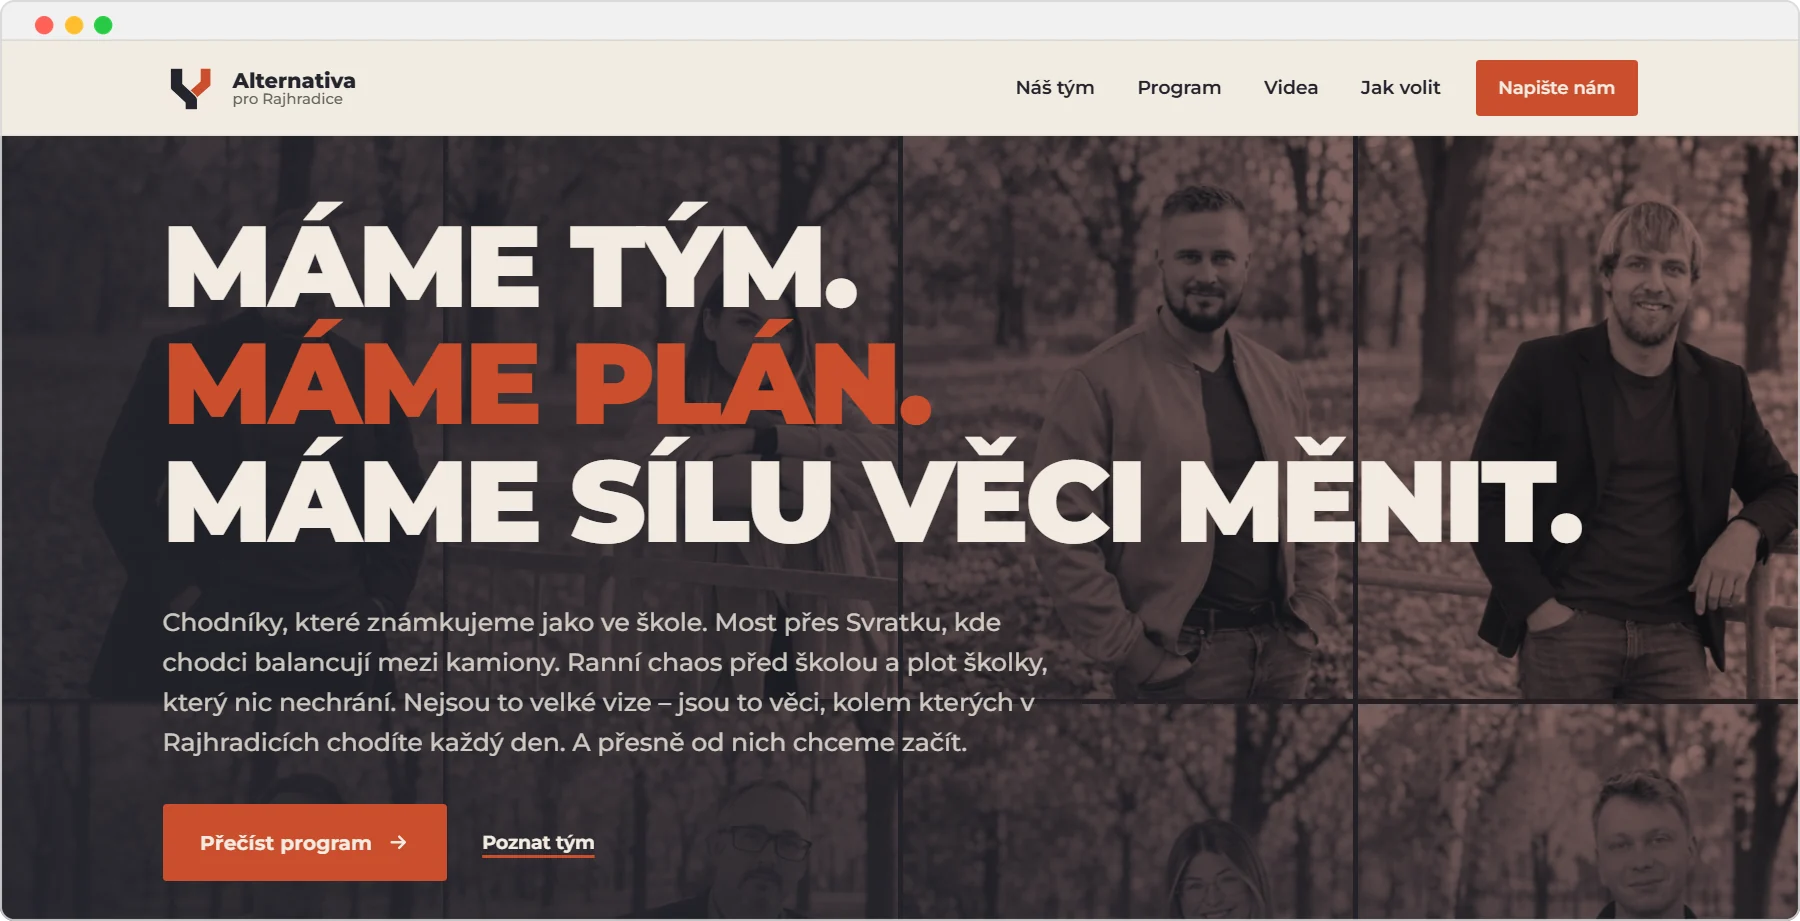
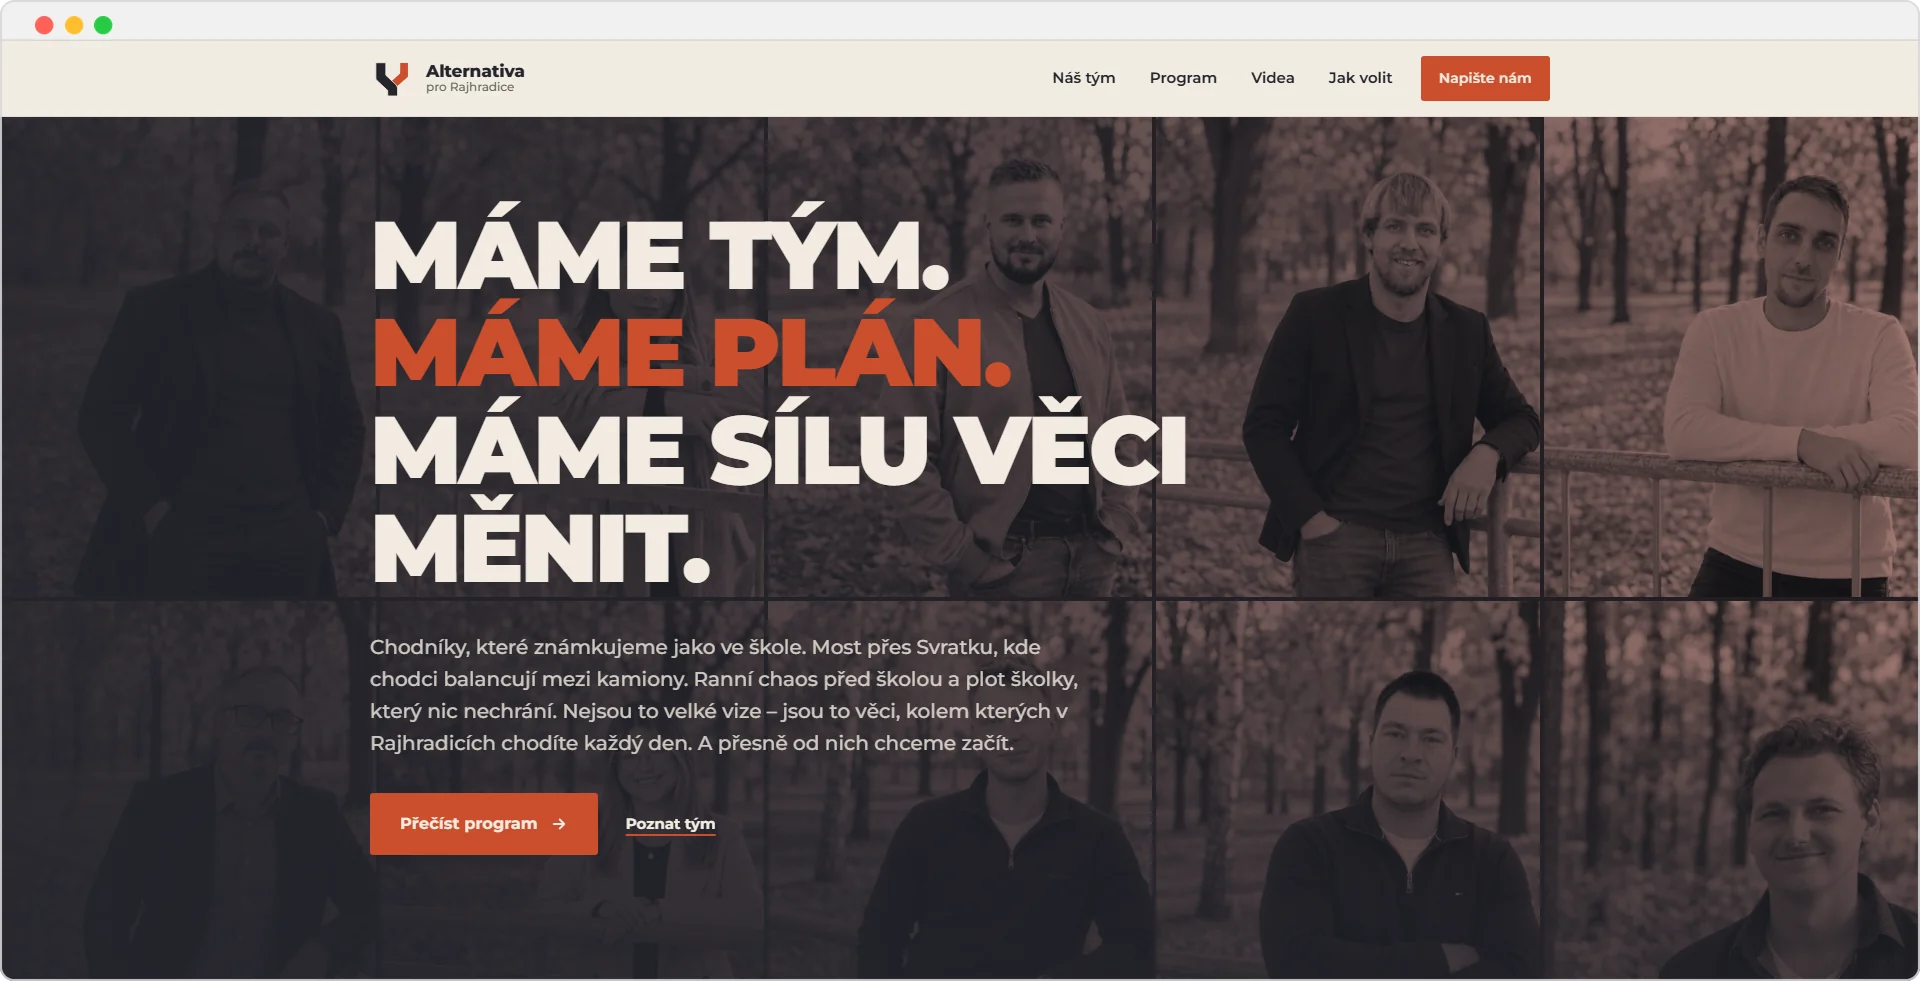
Put Maki back on dark, widen the website shots, add the mosaic slide
Maki's mark sits on its own dark app colour again. The Alternativa
website is shot at 1920 px, so it no longer looks zoomed in, and each
shot takes the full column instead of a quarter of it. The featured
slide gets the candidate mosaic from the website's hero behind the logo.

diff --git a/projects/alternativa.html b/projects/alternativa.html
@@ -296,26 +296,27 @@
                 <div class="pd-section">
                     <h2 class="pd-title" data-en="Website">Web</h2>
                     <p class="pd-text" data-en="Everything the flyer and the posts point to lives on the website: profiles of the candidates, the full programme, the series of videos and a guide to voting in municipal elections. It uses the same cream, dark and brick as the rest of the campaign.">Všechno, na co leták a příspěvky odkazují, je na webu: medailonky kandidátů, celé znění programu, série videí a návod, jak volit v komunálních volbách. Stojí na stejné krémové, tmavé a cihlové jako zbytek kampaně.</p>
-                    <img src="../img/works/Alternativa/web-domu.webp" class="pd-image" alt="Úvodní stránka webu — heslo Máme tým, máme plán, máme sílu věci měnit přes fotky kandidátů" data-alt-en="The home page — the slogan We have a team, a plan and the strength to change things, over photos of the candidates" width="1800" height="921" loading="lazy">
+                    <img src="../img/works/Alternativa/web-domu.webp" class="pd-image" alt="Úvodní stránka webu — heslo Máme tým, máme plán, máme sílu věci měnit přes fotky kandidátů" data-alt-en="The home page — the slogan We have a team, a plan and the strength to change things, over photos of the candidates" width="1920" height="981" loading="lazy">
                             <span class="pd-caption" data-en="Home — the campaign slogan over photos of the candidates">Úvod — heslo kampaně přes fotky kandidátů</span>
 
-                    <div class="pd-grid-2" style="margin-top:2rem">
-                        <div>
-                            <img src="../img/works/Alternativa/web-kandidati.webp" class="pd-image" alt="Stránka Kandidátka 2026 — seznam kandidátů a medailonek lídra" data-alt-en="The 2026 candidate list — the list of candidates and the lead candidate's profile" width="1800" height="921" loading="lazy">
+                    <div style="margin-top:3rem">
+                        <img src="../img/works/Alternativa/web-kandidati.webp" class="pd-image" alt="Stránka Kandidátka 2026 — seznam kandidátů a medailonek lídra" data-alt-en="The 2026 candidate list — the list of candidates and the lead candidate's profile" width="1920" height="981" loading="lazy">
                             <span class="pd-caption" data-en="Candidates — the list and profiles">Kandidátka — seznam a medailonky</span>
-                        </div>
-                        <div>
-                            <img src="../img/works/Alternativa/web-program.webp" class="pd-image" alt="Volební program — tři sliby a rozdělení programu podle období" data-alt-en="The election programme — three promises and the programme split by period" width="1800" height="921" loading="lazy">
+                    </div>
+
+<div style="margin-top:3rem">
+                        <img src="../img/works/Alternativa/web-program.webp" class="pd-image" alt="Volební program — tři sliby a rozdělení programu podle období" data-alt-en="The election programme — three promises and the programme split by period" width="1920" height="981" loading="lazy">
                             <span class="pd-caption" data-en="Programme — the full text by period">Program — celé znění podle období</span>
-                        </div>
-                        <div>
-                            <img src="../img/works/Alternativa/web-videa.webp" class="pd-image" alt="Stránka Témata na kameru — seznam videí a detail vybraného tématu" data-alt-en="The On camera page — the list of videos and the selected topic" width="1800" height="921" loading="lazy">
+                    </div>
+
+<div style="margin-top:3rem">
+                        <img src="../img/works/Alternativa/web-videa.webp" class="pd-image" alt="Stránka Témata na kameru — seznam videí a detail vybraného tématu" data-alt-en="The On camera page — the list of videos and the selected topic" width="1920" height="981" loading="lazy">
                             <span class="pd-caption" data-en="Videos — campaign topics on camera">Videa — témata kampaně na kameru</span>
-                        </div>
-                        <div>
-                            <img src="../img/works/Alternativa/web-jak-volit.webp" class="pd-image" alt="Stránka Jak volit — termíny voleb a návod krok za krokem" data-alt-en="The How to vote page — election dates and a step-by-step guide" width="1800" height="921" loading="lazy">
+                    </div>
+
+<div style="margin-top:3rem">
+                        <img src="../img/works/Alternativa/web-jak-volit.webp" class="pd-image" alt="Stránka Jak volit — termíny voleb a návod krok za krokem" data-alt-en="The How to vote page — election dates and a step-by-step guide" width="1920" height="981" loading="lazy">
                             <span class="pd-caption" data-en="How to vote — a guide to the municipal election">Jak volit — návod ke komunálním volbám</span>
-                        </div>
                     </div>
                     <div style="display:flex;flex-wrap:wrap;gap:1rem;margin-top:2.5rem">
                         <a href="https://www.alternativaprorajhradice.cz/" target="_blank" rel="noopener" class="pd-btn" data-en="Open alternativaprorajhradice.cz ↗">Otevřít alternativaprorajhradice.cz ↗</a>

diff --git a/index.html b/index.html
@@ -482,7 +482,7 @@
 
                 <ul class="wip-grid" role="list">
                     <li class="wip-card" style="--wip-accent:#e9b75e">
-                        <div class="wip-mark" aria-hidden="true"><img src="img/wip/maki-mark.svg" alt="" class="wip-logo" loading="lazy" width="88" height="88"></div>
+                        <div class="wip-mark is-dark" aria-hidden="true"><img src="img/wip/maki-mark.svg" alt="" class="wip-logo" loading="lazy" width="88" height="88"></div>
                         <div class="wip-body">
                             <div class="wip-top">
                                 <h3 class="wip-name">Maki</h3>

diff --git a/css/wip.css b/css/wip.css
@@ -116,6 +116,12 @@
     padding: 0.3rem;
 }
 
+/* Maki je tmavá aplikace a jeho jantarová je laděná na tmavou plochu —
+   na světlé dlaždici by značka ztratila charakter. */
+.wip-mark.is-dark {
+    background: #1c1915;
+}
+
 /* Zástupný monogram — pro projekty bez použitelného loga */
 .wip-mark.is-placeholder {
     background: none;
